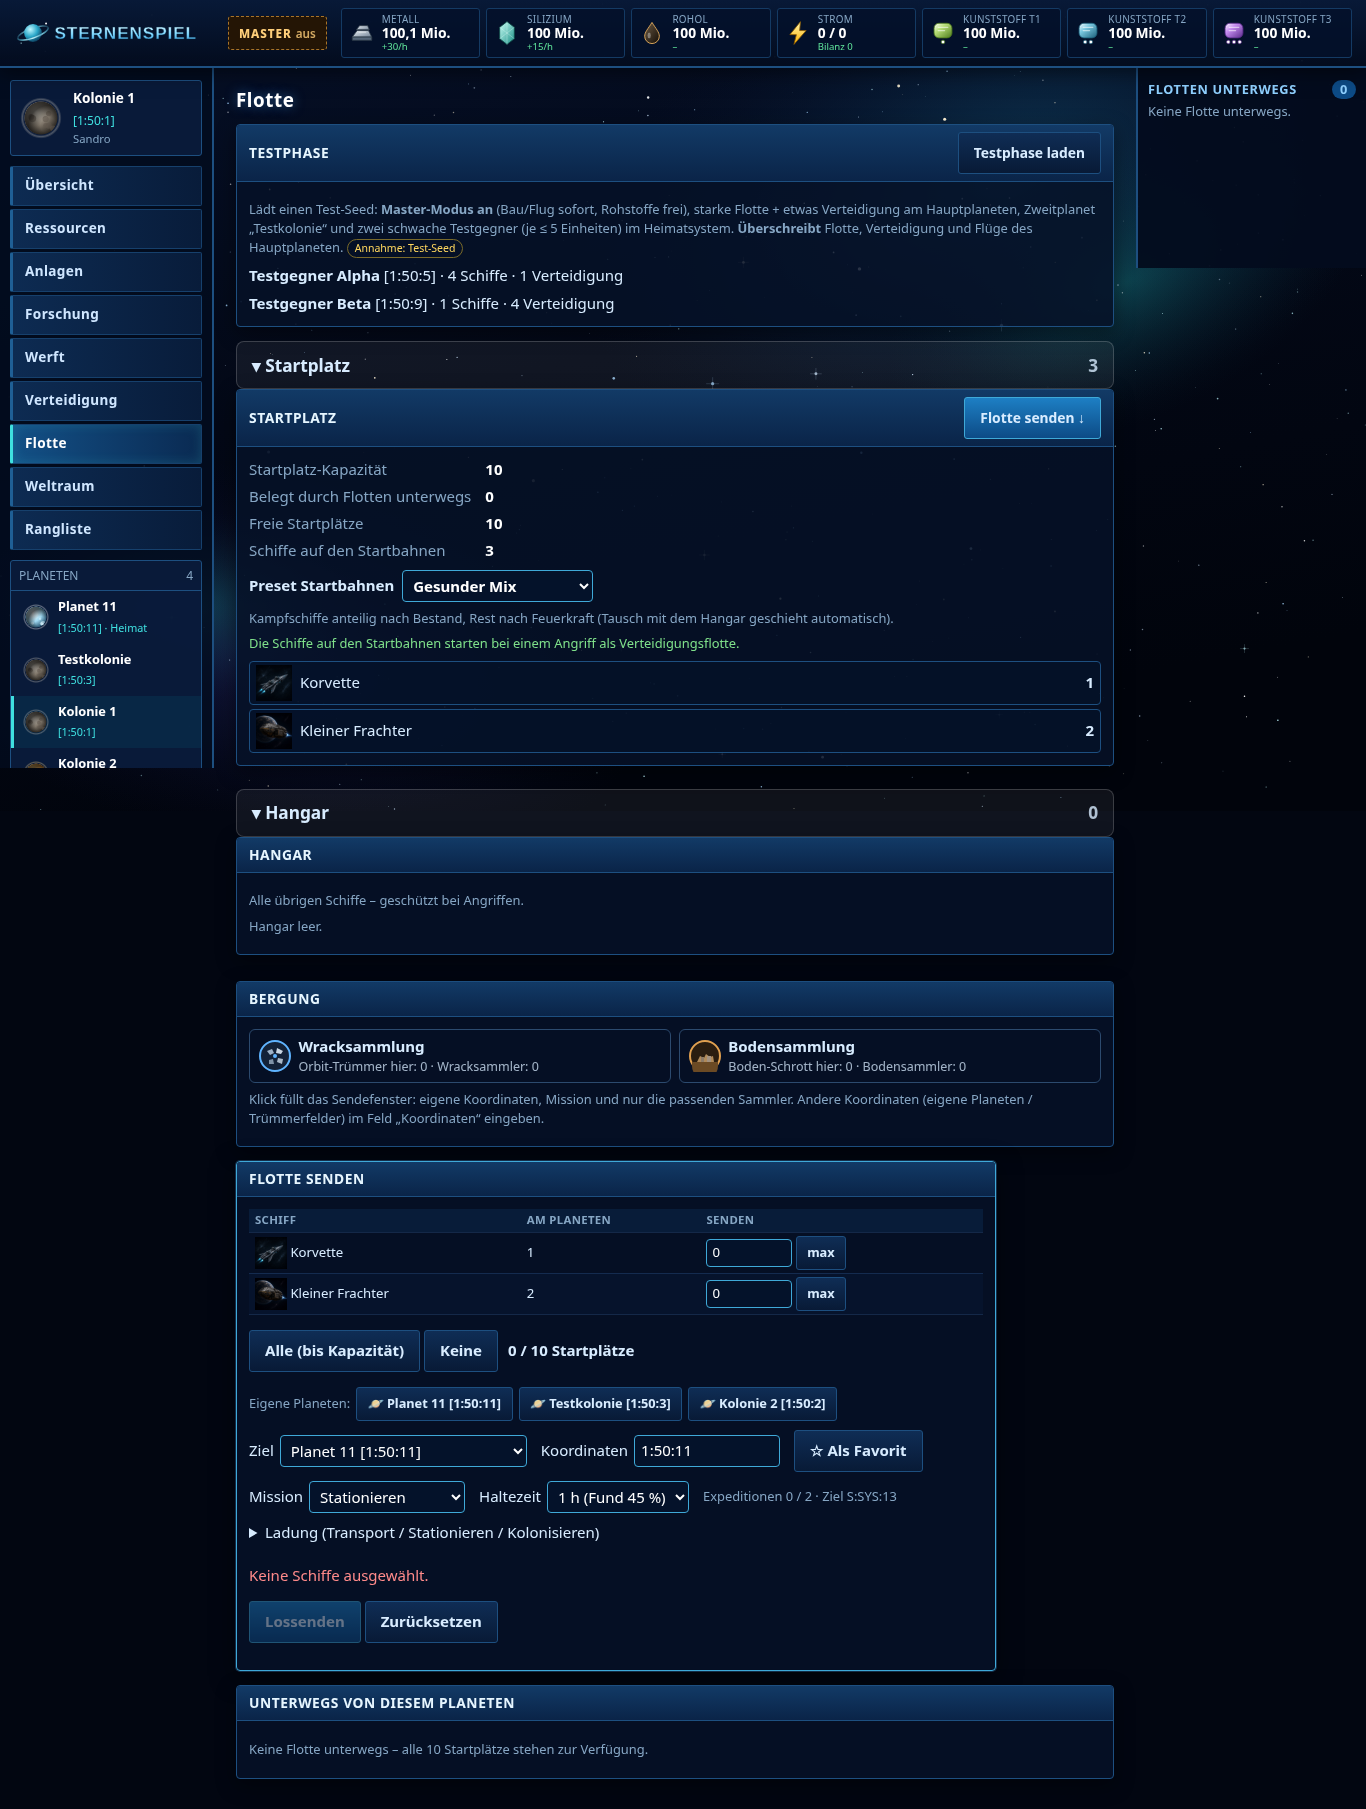
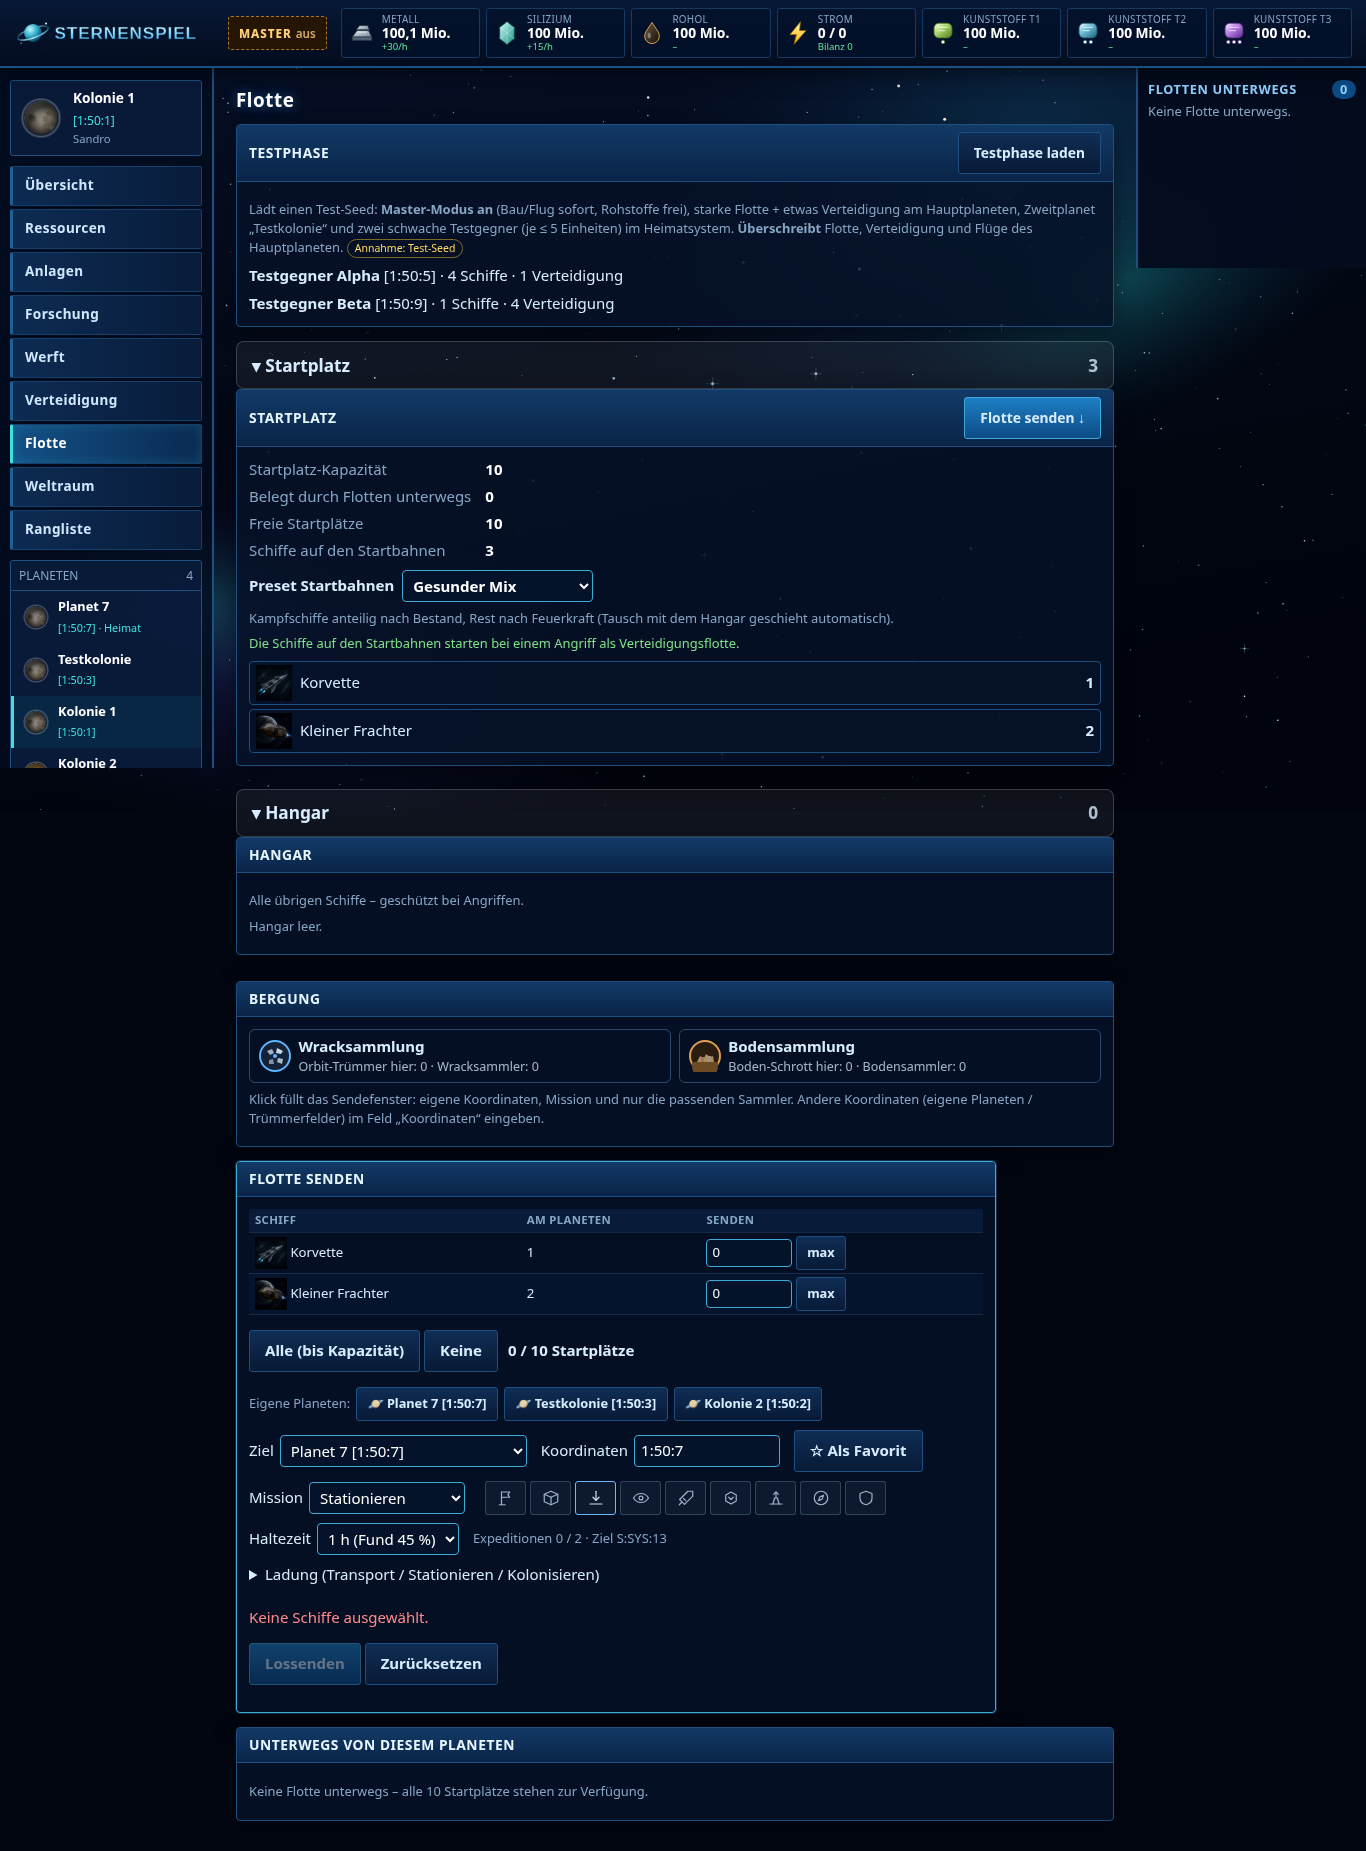
0.21.2: Dezente Missions-Symbole mit Tooltip in Weltraum + Flottenmenü (Sandro pt63u)

Changed region(s): [[0.0, 0.0, 1.0, 0.9906], [0.8302, 0.1238, 0.8609, 0.1548], [0.6149, 0.3405, 0.6457, 0.3715]]

diff --git a/index.html b/index.html
@@ -1,12 +1,12 @@
 <!DOCTYPE html>
-<html lang="de" data-version="0.21.1">
+<html lang="de" data-version="0.21.2">
 <head>
   <meta charset="utf-8">
   <meta name="viewport" content="width=device-width, initial-scale=1, viewport-fit=cover">
   <meta name="theme-color" content="#030a1c">
   <title>Sternenspiel</title>
-  <link rel="icon" type="image/svg+xml" href="assets/favicon.svg?v=0.21.1">
-  <link rel="stylesheet" href="css/style.css?v=0.21.1">
+  <link rel="icon" type="image/svg+xml" href="assets/favicon.svg?v=0.21.2">
+  <link rel="stylesheet" href="css/style.css?v=0.21.2">
 </head>
 <body>
 
@@ -30,7 +30,7 @@
         <button id="knopf-neues-spiel" class="knopf primaer" type="submit">Spieler erschaffen &amp; starten</button>
         <p class="hinweis">Der neue Spieler startet automatisch auf einem Hauptplaneten irgendwo im Universum.</p>
       </form>
-      <p class="fusszeile">Weltraum · Version <span id="version-anzeige">0.21.1</span></p>
+      <p class="fusszeile">Weltraum · Version <span id="version-anzeige">0.21.2</span></p>
     </div>
   </section>
 
@@ -83,40 +83,41 @@
 
   <!-- Reihenfolge wichtig: Daten → Kern → Oberfläche. tests/lade-spiel.js liest diese Liste.
        ?v=… = Cache-Schutz: bei jeder neuen Version hochzählen (gleich wie data-version oben und SS.VERSION in konstanten.js). -->
-  <script src="js/data/konstanten.js?v=0.21.1"></script>
-  <script src="js/data/rohstoffe.js?v=0.21.1"></script>
-  <script src="js/data/startplaetze.js?v=0.21.1"></script>
-  <script src="js/data/weltraum.js?v=0.21.1"></script>
-  <script src="js/data/menue.js?v=0.21.1"></script>
-  <script src="js/data/gebaeude.js?v=0.21.1"></script>
-  <script src="js/data/forschung.js?v=0.21.1"></script>
-  <script src="js/data/schiffe.js?v=0.21.1"></script>
-  <script src="js/data/verteidigung.js?v=0.21.1"></script>
-  <script src="js/kern/geologie.js?v=0.21.1"></script>
-  <script src="js/kern/zustand.js?v=0.21.1"></script>
-  <script src="js/kern/produktion.js?v=0.21.1"></script>
-  <script src="js/kern/bau.js?v=0.21.1"></script>
-  <script src="js/kern/forschung.js?v=0.21.1"></script>
-  <script src="js/kern/werft.js?v=0.21.1"></script>
-  <script src="js/kern/verteidigung.js?v=0.21.1"></script>
-  <script src="js/kern/kampf.js?v=0.21.1"></script>
-  <script src="js/kern/flotte.js?v=0.21.1"></script>
-  <script src="js/kern/expedition.js?v=0.21.1"></script>
-  <script src="js/kern/kolonie.js?v=0.21.1"></script>
-  <script src="js/kern/testphase.js?v=0.21.1"></script>
-  <script src="js/kern/bergung.js?v=0.21.1"></script>
-  <script src="js/kern/ki.js?v=0.21.1"></script>
-  <script src="js/kern/rangliste.js?v=0.21.1"></script>
-  <script src="js/kern/speicher.js?v=0.21.1"></script>
-  <script src="js/kern/profile.js?v=0.21.1"></script>
-  <script src="js/ui/format.js?v=0.21.1"></script>
-  <script src="js/ui/seite-werft.js?v=0.21.1"></script>
-  <script src="js/ui/kampfbericht.js?v=0.21.1"></script>
-  <script src="js/ui/seite-verteidigung.js?v=0.21.1"></script>
-  <script src="js/ui/seite-flotte.js?v=0.21.1"></script>
-  <script src="js/ui/seite-weltraum.js?v=0.21.1"></script>
-  <script src="js/ui/seite-rangliste.js?v=0.21.1"></script>
-  <script src="js/ui/app.js?v=0.21.1"></script>
+  <script src="js/data/konstanten.js?v=0.21.2"></script>
+  <script src="js/data/rohstoffe.js?v=0.21.2"></script>
+  <script src="js/data/startplaetze.js?v=0.21.2"></script>
+  <script src="js/data/weltraum.js?v=0.21.2"></script>
+  <script src="js/data/menue.js?v=0.21.2"></script>
+  <script src="js/data/gebaeude.js?v=0.21.2"></script>
+  <script src="js/data/forschung.js?v=0.21.2"></script>
+  <script src="js/data/schiffe.js?v=0.21.2"></script>
+  <script src="js/data/verteidigung.js?v=0.21.2"></script>
+  <script src="js/kern/geologie.js?v=0.21.2"></script>
+  <script src="js/kern/zustand.js?v=0.21.2"></script>
+  <script src="js/kern/produktion.js?v=0.21.2"></script>
+  <script src="js/kern/bau.js?v=0.21.2"></script>
+  <script src="js/kern/forschung.js?v=0.21.2"></script>
+  <script src="js/kern/werft.js?v=0.21.2"></script>
+  <script src="js/kern/verteidigung.js?v=0.21.2"></script>
+  <script src="js/kern/kampf.js?v=0.21.2"></script>
+  <script src="js/kern/flotte.js?v=0.21.2"></script>
+  <script src="js/kern/expedition.js?v=0.21.2"></script>
+  <script src="js/kern/kolonie.js?v=0.21.2"></script>
+  <script src="js/kern/testphase.js?v=0.21.2"></script>
+  <script src="js/kern/bergung.js?v=0.21.2"></script>
+  <script src="js/kern/ki.js?v=0.21.2"></script>
+  <script src="js/kern/rangliste.js?v=0.21.2"></script>
+  <script src="js/kern/speicher.js?v=0.21.2"></script>
+  <script src="js/kern/profile.js?v=0.21.2"></script>
+  <script src="js/ui/format.js?v=0.21.2"></script>
+  <script src="js/ui/symbole.js?v=0.21.2"></script>
+  <script src="js/ui/seite-werft.js?v=0.21.2"></script>
+  <script src="js/ui/kampfbericht.js?v=0.21.2"></script>
+  <script src="js/ui/seite-verteidigung.js?v=0.21.2"></script>
+  <script src="js/ui/seite-flotte.js?v=0.21.2"></script>
+  <script src="js/ui/seite-weltraum.js?v=0.21.2"></script>
+  <script src="js/ui/seite-rangliste.js?v=0.21.2"></script>
+  <script src="js/ui/app.js?v=0.21.2"></script>
   <!-- Notbremse: Falls Skripte fehlen oder abstürzen, sieht man eine Meldung statt eines toten Knopfes. -->
   <script>
     window.addEventListener("load", function () {

diff --git a/js/ui/symbole.js b/js/ui/symbole.js
@@ -1,0 +1,22 @@
+/* Sternenspiel – dezente Missions-Symbole (0.21.2, Sandro pt63u). Inline-SVG, Farbe über currentColor. DOM-frei. */
+(function (g) {
+  "use strict";
+  var SS = (g.SS = g.SS || {}); SS.ui = SS.ui || {};
+  var P = {
+    kolonisieren: '<path d="M6 21V4"/><path d="M6 4h11l-2.5 3.5L17 11H6"/><path d="M3 21h8"/>',                         // Fahne
+    transportieren: '<path d="M3 7l9-4 9 4-9 4z"/><path d="M3 7v10l9 4 9-4V7"/><path d="M12 11v10"/>',                 // Kiste
+    stationieren: '<path d="M12 3v12"/><path d="M8 11l4 4 4-4"/><path d="M4 20h16"/>',                                  // Landen/Ablegen
+    spionieren: '<path d="M2 12s3.5-6 10-6 10 6 10 6-3.5 6-10 6S2 12 2 12z"/><circle cx="12" cy="12" r="2.6"/>',         // Auge
+    angriff: '<path d="M14.5 3H21v6.5L10 20.5 3.5 14z"/><path d="M6 18l-3 3"/><path d="M8.5 12.5l3 3"/>',                // Schwert
+    sammeln: '<path d="M12 4l7 4v8l-7 4-7-4V8z"/><path d="M9 11l3 3 3-3"/>',                                              // Wrack einsammeln
+    bodensammlung: '<path d="M4 20h16"/><path d="M8 20l2-8h4l2 8"/><path d="M12 12V4"/><path d="M9 7l3-3 3 3"/>',        // Bodenschrott hoch
+    expedition: '<circle cx="12" cy="12" r="9"/><path d="M15.5 8.5l-2 5-5 2 2-5z"/>',                                    // Kompass
+    unterstuetzen: '<path d="M12 3l8 3v6c0 5-3.5 8-8 9-4.5-1-8-4-8-9V6z"/>'                                              // Schild
+  };
+  var T = { kolonisieren: "Kolonisieren", transportieren: "Transport", stationieren: "Stationieren", spionieren: "Spionage", angriff: "Angriff",
+    sammeln: "Wracksammlung", bodensammlung: "Bodensammlung", expedition: "Expedition", unterstuetzen: "Unterstützen" };
+  function svg(id) {
+    return '<svg class="sym" viewBox="0 0 24 24" width="18" height="18" fill="none" stroke="currentColor" stroke-width="1.6" stroke-linecap="round" stroke-linejoin="round" aria-hidden="true" focusable="false">' + (P[id] || '<circle cx="12" cy="12" r="4"/>') + '</svg>';
+  }
+  SS.ui.symbole = { svg: svg, text: function (id) { return T[id] || id; }, IDS: Object.keys(P) };
+})(typeof window !== "undefined" ? window : globalThis);

diff --git a/js/ui/seite-flotte.js b/js/ui/seite-flotte.js
@@ -138,7 +138,7 @@
         schnellwahl(zz, pp) + "<div class=\"send-ziel\"><label>Ziel <select id=\"send-ziel\">" + opts + "</select></label>" +
         "<label>Koordinaten <input id=\"send-koord\" type=\"text\" placeholder=\"S:SYS:P\" autocomplete=\"off\" size=\"10\"></label>" +
         "<button type=\"button\" class=\"knopf\" data-aktion=\"send-favorit\">☆ Als Favorit</button></div>" +
-        "<div class=\"send-ziel\"><label>Mission <select id=\"send-mission\">" + mis + "</select></label>" + halteFeld(zz) + "</div>" + ladung +
+        "<div class=\"send-ziel\"><label>Mission <select id=\"send-mission\">" + mis + "</select></label>" + "<span class=\"mission-symbole\" role=\"group\" aria-label=\"Mission wählen\">" + FL.MISSIONEN.map(function (m) { return "<button type=\"button\" class=\"knopf klein sym-knopf\" data-aktion=\"send-mission-wahl\" data-mission=\"" + m.id + "\" data-tip=\"" + esc(m.name) + "\" aria-label=\"" + esc(m.name) + "\">" + SS.ui.symbole.svg(m.id) + "</button>"; }).join("") + "</span>" + halteFeld(zz) + "</div>" + ladung +
         "<dl class=\"werte\" id=\"send-vorschau\"></dl><p id=\"send-grund\" class=\"grund\"></p>" +
         "<p><button type=\"button\" class=\"knopf primaer\" data-aktion=\"send-los\" id=\"knopf-lossenden\" disabled>Lossenden</button> <button type=\"button\" class=\"knopf\" data-aktion=\"send-keine\" id=\"knopf-send-zu\">Zurücksetzen</button></p>";
       return "<div class=\"send-fenster\" id=\"senden\">" + h.box("Flotte senden", inhalt, "", " id=\"send-box\"") + "</div>";
@@ -156,6 +156,7 @@
     function aktualisiereSenden(doc) {
       if (!doc.getElementById("send-box")) return;
       var zz = z(), pp = p(), a = formular(doc), r = FL.pruefe(zz, pp, a);
+      Array.prototype.forEach.call(doc.querySelectorAll(".sym-knopf"), function (b) { b.classList.toggle("aktiv", b.getAttribute("data-mission") === a.mission); });
       var s = doc.getElementById("send-summe");
       if (s) { s.textContent = F.zahl(r.anzahl) + " / " + F.zahl(r.frei) + " Startplätze"; s.classList.toggle("negativ", r.anzahl > r.frei); }
       var v = doc.getElementById("send-vorschau");

diff --git a/tests/playtest-weltraum.js b/tests/playtest-weltraum.js
@@ -61,6 +61,7 @@ async function lauf(browser, g) {
   ok((await page.$$("#wr-tabelle tbody tr")).length === 13, "12 Positionen + Expeditionsraum");
   ok((await page.$$("#wr-fenster li")).length === 5, "5 Sonnensysteme im Sektor-Fenster");
   ok((await page.$$("tr.wr-gegner")).length === 2, "Alpha + Beta sichtbar");
+  ok(await page.$eval("tr.wr-leer .wr-kolonisieren", (a) => !!a.querySelector("svg.sym") && a.textContent.trim() === "" && a.getAttribute("data-tip") === "Kolonisieren"), "0.21.2: Kolonisieren als Symbol mit Tooltip-Text");
   ok((await page.$$("tr.wr-leer .wr-spionieren, tr.wr-leer .wr-angriff")).length === 0 && (await page.$$("tr.wr-leer .wr-kolonisieren")).length === 8, "Leer: nur Kolonisieren");
   await shot("system" + (handy ? "-handy" : ""));
   for (const k of gk) {
@@ -74,6 +75,7 @@ async function lauf(browser, g) {
     await geheZu("#weltraum", "weltraum");
     await page.click(`tr[data-koord="${k}"] .wr-angriff`); await page.waitForSelector('#inhalt[data-seite="flotte"]'); await sleep(300);
     ok((await page.inputValue("#send-mission")) === "angriff" && (await page.inputValue("#send-koord")) === k, `Angriff ${k}: vorausgefüllt`);
+    if (k === gk[0]) { await page.click(".sym-knopf[data-mission=transportieren]"); ok((await page.inputValue("#send-mission")) === "transportieren" && (await page.$$(".sym-knopf.aktiv[data-mission=transportieren]")).length === 1, "0.21.2: Missions-Symbol im Flottenmenü wählt Mission"); await page.click(".sym-knopf[data-mission=angriff]"); }
     await page.fill('input[data-send-menge="kreuzer"]', "5").catch(() => {}); await Z(() => window.SS.app.route && 0);
     await page.dispatchEvent('input[data-send-menge]', "input").catch(() => {});
     const los = await page.isEnabled("#knopf-lossenden");

diff --git a/css/style.css b/css/style.css
@@ -475,3 +475,17 @@ a.knopf { display: inline-flex; align-items: center; text-decoration: none; }
 .schild-liste li.aktiv { background: rgba(58,134,217,.12); }
 .schild-liste .planet-bild, .schild-liste img:first-child { width: 28px; height: 28px; }
 .wr-ki{font-size:.8em;opacity:.85;margin-left:.3em}.wr-ki-siedler{color:#9fd59f}.wr-ki-pirat{color:#ff8a6b}.wr-ki-rivale{color:#c9a6ff}
+
+/* 0.21.2 (Sandro pt63u): dezente Missions-Symbole + Tooltip */
+.sym { display: block; }
+.wr-knopf, .sym-knopf { min-width: 34px; min-height: 30px; padding: .25rem .45rem; display: inline-flex; align-items: center; justify-content: center;
+  color: #9fb3c8; background: rgba(20,35,55,.55); border-color: rgba(120,150,180,.35); }
+.wr-knopf:hover, .wr-knopf:focus-visible, .sym-knopf:hover, .sym-knopf:focus-visible { color: #d6e2ee; background: rgba(40,60,85,.65); }
+.wr-angriff { color: #c49a9a; } .wr-spionieren { color: #a9b8c9; } .wr-kolonisieren { color: #a7c2a4; } .wr-expedition .wr-knopf, a.wr-expedition { color: #b4a8cc; }
+.mission-symbole { display: inline-flex; flex-wrap: wrap; gap: 4px; margin-left: 6px; }
+.sym-knopf.aktiv { border-color: #6fb7ff; color: #d6e2ee; }
+.sym-inline { display: inline-block; vertical-align: -4px; color: #9fb3c8; }
+[data-tip] { position: relative; }
+[data-tip]:hover::after, [data-tip]:focus-visible::after { content: attr(data-tip); position: absolute; bottom: calc(100% + 6px); left: 50%; transform: translateX(-50%);
+  white-space: nowrap; background: rgba(8,16,28,.95); color: #dce6f0; border: 1px solid rgba(120,150,180,.45); border-radius: 3px; padding: 3px 7px;
+  font-size: .8rem; pointer-events: none; z-index: 50; }

diff --git a/js/ui/app.js b/js/ui/app.js
@@ -1135,6 +1135,7 @@
     else if (a === "send-alle") sendAlle();
     else if (a === "send-keine") { Array.prototype.forEach.call(document.querySelectorAll("#inhalt input[data-send-ladung]"), function (i) { i.value = 0; }); sendeFeld(function (i) { i.value = 0; }); }
     else if (a === "send-favorit") sendFavorit();
+    else if (a === "send-mission-wahl") { $("send-mission").value = b.getAttribute("data-mission"); if (b.getAttribute("data-mission") === "expedition") setzeExpeditionsraum(false); FU().aktualisiereSenden(document); }
     else if (a === "send-planet") { $("send-koord").value = b.getAttribute("data-koord"); $("send-ziel").value = b.getAttribute("data-koord"); if ($("send-mission").value !== "transportieren") $("send-mission").value = "stationieren"; FU().aktualisiereSenden(document); }
     else if (a === "send-expeditionsraum") { setzeExpeditionsraum(true); FU().aktualisiereSenden(document); }
     else if (a === "send-los") sendLos();

diff --git a/js/ui/seite-weltraum.js b/js/ui/seite-weltraum.js
@@ -45,7 +45,7 @@
   SS.ui.weltraum = function (h) {
     var D = SS.DATEN, W = D.weltraum, esc = h.esc;
     function knopf(mission, koord, text, extra) {
-      return "<a class=\"knopf klein wr-knopf wr-" + mission + "\" href=\"" + link(mission, koord) + "\" data-mission=\"" + mission + "\" data-koord=\"" + koord + "\"" + (extra || "") + ">" + text + "</a>";
+      return "<a class=\"knopf klein wr-knopf wr-" + mission + "\" href=\"" + link(mission, koord) + "\" data-mission=\"" + mission + "\" data-koord=\"" + koord + "\" data-tip=\"" + text + "\" aria-label=\"" + text + "\"" + (extra || "") + ">" + SS.ui.symbole.svg(mission) + "</a>";
     }
     function seite() {
       var zz = h.zustand(), heim = SS.kern.flotte.herkunftKoord(zz, h.hp()), teile = h.teile();

diff --git a/js/data/konstanten.js b/js/data/konstanten.js
@@ -16,7 +16,7 @@
   }
 
   // Programmversion: muss mit <html data-version> und den ?v=-Parametern in index.html übereinstimmen (Cache-Schutz).
-  SS.VERSION = "0.21.1";
+  SS.VERSION = "0.21.2";
 
   SS.BALANCE = tiefFrieren({
     // Version des Spielstand-Formats (für Migrationen in späteren Kapiteln)

diff --git a/CHANGELOG.md b/CHANGELOG.md
@@ -1,5 +1,11 @@
 # Changelog – Sternenspiel
 
+## [0.21.2] – 2026-10-31 – Dezente Missions-Symbole (Sandro pt63u)
+
+- Weltraum-Ansicht: Text-Knöpfe → gedämpfte Linien-Symbole (SVG, `js/ui/symbole.js`), Tooltip mit Text beim Überfahren (`data-tip`, auch `aria-label`).
+- Flottenmenü: Symbol-Leiste neben dem Missions-Dropdown (Klick wählt Mission, aktive hervorgehoben); Symbol auch in der Flugliste.
+- Symbole: Fahne=Kolonisieren, Kiste=Transport, Pfeil-ab=Stationieren, Auge=Spionage, Schwert=Angriff, Sechseck+Pfeil=Wracksammlung, Pfeil-hoch=Bodensammlung, Kompass=Expedition, Schild=Unterstützen.
+
 ## [0.21.1] – 2026-10-31 – Start-Siedler/Piraten, Rivalen über Sektor 1 (Sandro pt62u)
 
 - **Start belebt:** Beim ersten KI-Tick entstehen sofort **4 Siedler** und **2 Piraten** rund um das Heimatsystem (`K.START_SIEDLER`, `K.START_PIRATEN`).
